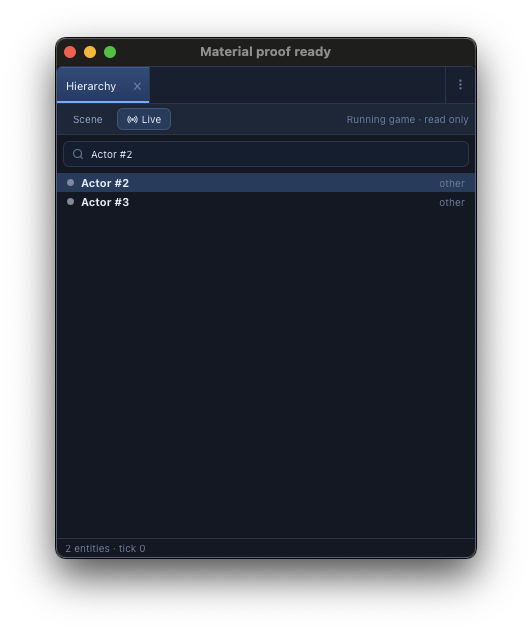
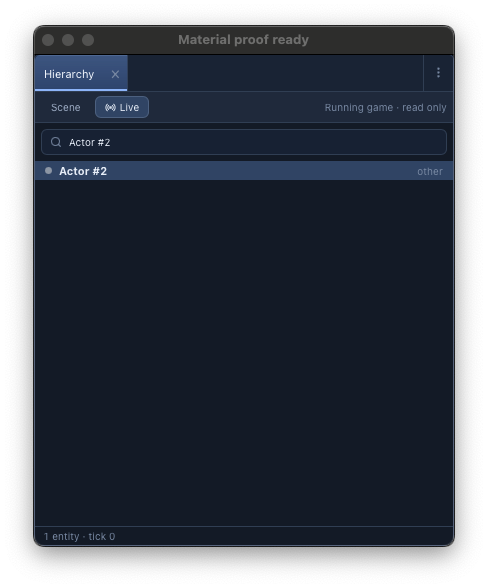
Resolve numbered live entity names before matching ECS indices

Changed region(s): [[0.0307, 0.0306, 0.9529, 0.949]]

diff --git a/apps/editor/core/WorldInspect.cpp b/apps/editor/core/WorldInspect.cpp
@@ -776,6 +776,18 @@ bool worldRowMatches(const WorldModel& m, const Rules& R, const MapData* doc, co
         std::string tok = lower(query.substr(i, j - i));
         i = j;
         if (tok.empty()) continue;
+        if (!r.runtimeName.empty() && lower(r.runtimeName).starts_with(tok + " #")) {
+            const auto hash = query.find_first_not_of(' ', i);
+            if (hash != std::string::npos && query[hash] == '#') {
+                const auto end = query.find_first_not_of("0123456789", hash + 1);
+                if (end != hash + 1 && (end == std::string::npos || query[end] == ' ')) {
+                    const auto name = tok + " " + query.substr(hash, end - hash);
+                    if (lower(r.runtimeName) != name) return false;
+                    i = end == std::string::npos ? query.size() : end;
+                    continue;
+                }
+            }
+        }
         auto has = [](const std::string& hay, const std::string& needle) { return lower(hay).find(needle) != std::string::npos; };
         std::string prefix, v = tok;
         if (size_t c = tok.find(':'); c != std::string::npos && c > 0 && c <= 2) { prefix = tok.substr(0, c); v = tok.substr(c + 1); }

diff --git a/apps/studio-native/tests/StudioSessionTests.cpp b/apps/studio-native/tests/StudioSessionTests.cpp
@@ -2419,6 +2419,14 @@ void entityWorkflow() {
                 AIVERSE_TEST_CHECK(result["rows"][0].getStr("ref")==std::to_string(editor::worldRef(entity)));
             };
             verifyRuntimeRow(actor::CharacterId{7}, "Actor #7", "Runtime Actors");
+            const auto otherActor = live.world().create();
+            live.world().add<actor::CharacterId>(otherActor,actor::CharacterId{42});
+            const auto index = std::to_string(otherActor.index);
+            const auto exact = inspector.entities(&live,"run-1",0,100,"Actor #" + index);
+            for (const auto& row : exact["rows"].items())
+                AIVERSE_TEST_CHECK(row.getStr("name") == "Actor #" + index);
+            const auto byIndex = inspector.entities(&live,"run-1",0,100,"id:" + index);
+            AIVERSE_TEST_CHECK(!rowFor(byIndex,std::to_string(editor::worldRef(otherActor))).isNull());
             verifyRuntimeRow(actor::Projectile{103}, "Projectile #103", "Projectiles");
             verifyRuntimeRow(actor::Loot{214}, "Loot #214", "Loot");
             verifyRuntimeRow(actor::Vehicle{325}, "Vehicle #325", "Vehicles");
